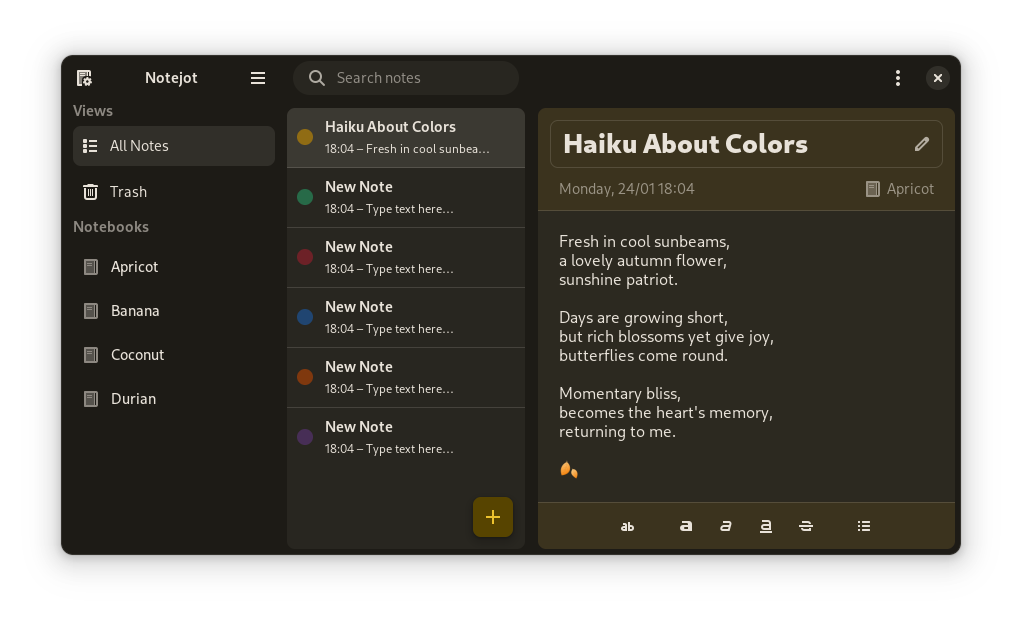
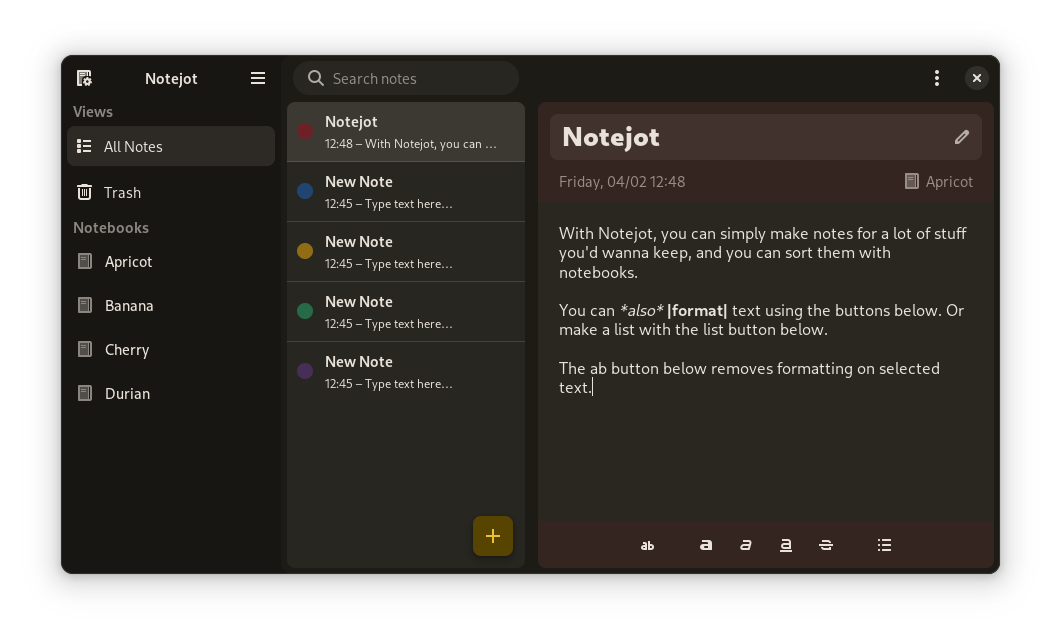
* - Notejot Next's UI style

diff --git a/data/style.css b/data/style.css
@@ -1,10 +1,10 @@
 @define-color accent_color #745c00;
 @define-color accent_bg_color #f6e468;
 @define-color accent_fg_color #201c00;
-@define-color window_bg_color #fffbf7;
-@define-color view_bg_color #f3efeb;
-@define-color headerbar_bg_color #fffbf7;
-@define-color popover_bg_color #f3efeb;
+@define-color window_bg_color #f3efeb;
+@define-color view_bg_color #fffbf7;
+@define-color headerbar_bg_color #f3efeb;
+@define-color popover_bg_color #fffbf7;
 @define-color popover_fg_color #1d1b16;
 @define-color window_fg_color #1d1b16;
 @define-color view_fg_color #1d1b16;
@@ -74,13 +74,33 @@
 
 .content-view {
 	border-radius: 8px;
-	margin: 6px;
-	margin-top: 0;
+	margin: 0 6px 6px 6px;
 }
 
 .content {
   background: @view_bg_color;
   box-shadow: none;
+}
+
+.rounded-main {
+  background: mix(@window_bg_color, black, 0.09);
+  box-shadow: none;
+  border: none;
+  margin: 0px;
+}
+.rounded-main > .rounded-main-child {
+  background: @window_bg_color;
+  box-shadow: none;
+  border-radius: 12px 0 0 12px;
+  border: none;
+}
+.rounded-main > .rounded-main-child2 {
+  background: @window_bg_color;
+  box-shadow: none;
+  border: none;
+}
+.rounded-main > separator {
+  background: @window_bg_color;
 }
 
 .content-sidebar-notebooks {
@@ -93,7 +113,7 @@
 }
 
 .content-sidebar-main {
-	margin: 12px;
+	margin: 6px;
 	margin-bottom: 0px;
 	border: none;
 	box-shadow: none;
@@ -124,10 +144,10 @@
   border-radius: 8px;
 }
 .content-sidebar-notebooks-item:hover {
-  background: alpha(@view_fg_color, 0.05);
+  background: alpha(@view_bg_color, 0.4);
 }
 .content-sidebar-notebooks-item:active {
-  background: alpha(@view_fg_color, 0.1);
+  background: alpha(@view_bg_color, 0.5);
 }
 
 .content-sidebar-contents-item .title {
@@ -147,21 +167,20 @@
   font-weight: 400;
 }
 .content-sidebar-notebooks-button.toggle:hover {
-  background: alpha(@view_fg_color, 0.05);
+  background: alpha(@window_fg_color, 0.05);
 }
 .content-sidebar-notebooks-button.toggle:active {
-  background: alpha(@view_fg_color, 0.1);
+  background: alpha(@window_fg_color, 0.1);
 }
 .content-sidebar-notebooks-button.toggle:checked {
-  background: alpha(@view_fg_color, 0.1);
+  background: alpha(@window_fg_color, 0.1);
 }
 
 .content-sidebar {
-	margin: 6px;
-	margin-top: 0;
+	margin: 0 6px 6px 6px;
 	border-radius: 8px;
 	border: none;
-	background: @popover_bg_color;
+	background: @view_bg_color;
 }
 .content-sidebar row {
   margin: 0px;
@@ -176,7 +195,7 @@
 	margin-bottom: 0px;
 	border-radius: 8px;
 	border: none;
-	background: @popover_bg_color;
+	background: @view_bg_color;
 }
 .content-sidebar-dialog row {
   margin: 0px;
@@ -196,6 +215,7 @@
   padding: 10px;
   margin: 0px;
   border-bottom: 1px solid @borders;
+  background: none;
 }
 
 .notejot-sidebar-box-row {
@@ -205,20 +225,22 @@
 }
 
 .content-header {
-  margin-top: 6px;
 	border-radius: 8px 8px 0 0;
-	border-bottom: 1px solid @borders;
 }
 
 .content-header entry {
-	background: none;
-	border: 1px solid @borders;
+	background: alpha(@view_fg_color, 0.07);
+	border: none;
 	padding: 6px 12px;
 	border-radius: 8px;
 }
 
 .content-footer {
 	border-radius: 0 0 8px 8px;
+}
+
+.content-footer box {
+	box-shadow: none;
 }
 
 .content-footer button {
@@ -270,19 +292,19 @@
 
 .notejot-searchbar {
   border-radius: 9rem;
-  padding: 0 10px;
+  padding: 0 12px;
   margin: 6px 0 6px;
   border: none;
-  background: @popover_bg_color;
+  background: @view_bg_color;
 }
 
 .notejot-searchbar image {
-  margin-left: 6px;
+  margin-left: 3px;
   padding: 0;
 }
 
 .notejot-searchbar text {
-  margin-left: 6px;
+  margin-left: 3px;
   padding: 0;
 }
 

diff --git a/data/style-hc.css b/data/style-hc.css
@@ -1,0 +1,23 @@
+.content-view {
+	border: 1px solid @borders;
+}
+
+.content-sidebar {
+	border: 1px solid @borders;
+}
+
+.content-header {
+	border-bottom: 1px solid @borders;
+}
+
+.content-footer > revealer > box {
+	border-top: 1px solid @borders;
+}
+
+.rounded-main > .rounded-main-child {
+  border-left: 1px solid @borders;
+}
+
+.rounded-main > .rounded-main-child:rtl {
+  border-right: 1px solid @borders;
+}

diff --git a/data/style-dark.css b/data/style-dark.css
@@ -14,3 +14,7 @@
   background: #ffb4a9;
   color: #680003;
 }
+
+.rounded-main {
+  background: mix(@window_bg_color, black, 0.18);
+}
